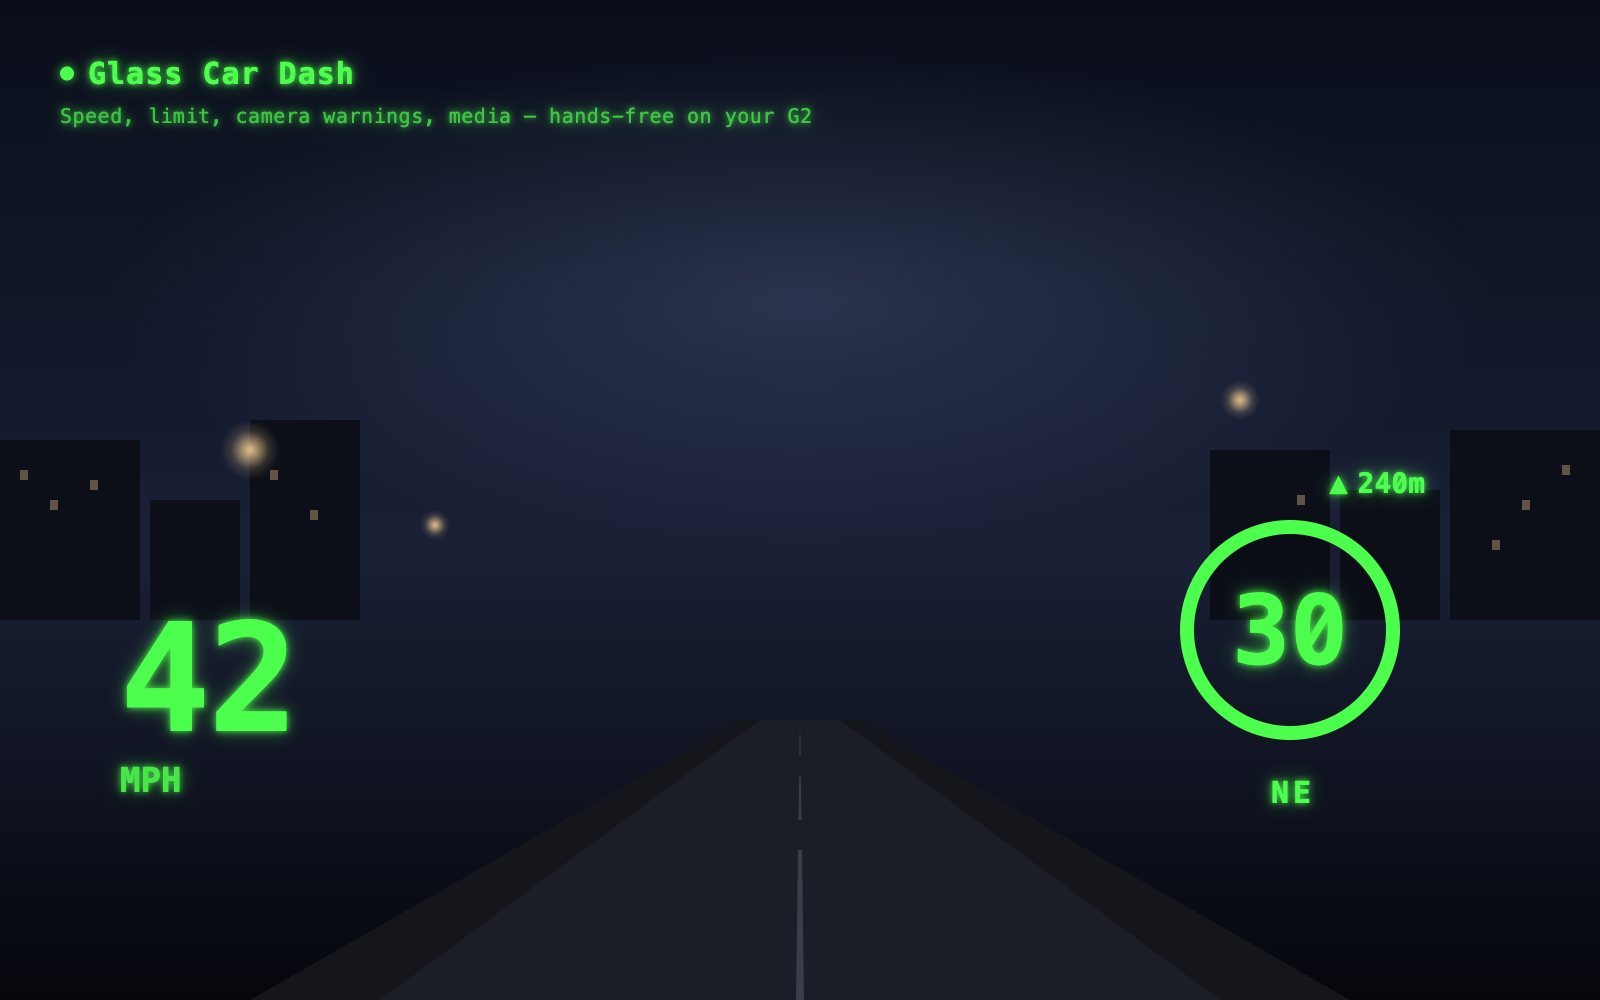
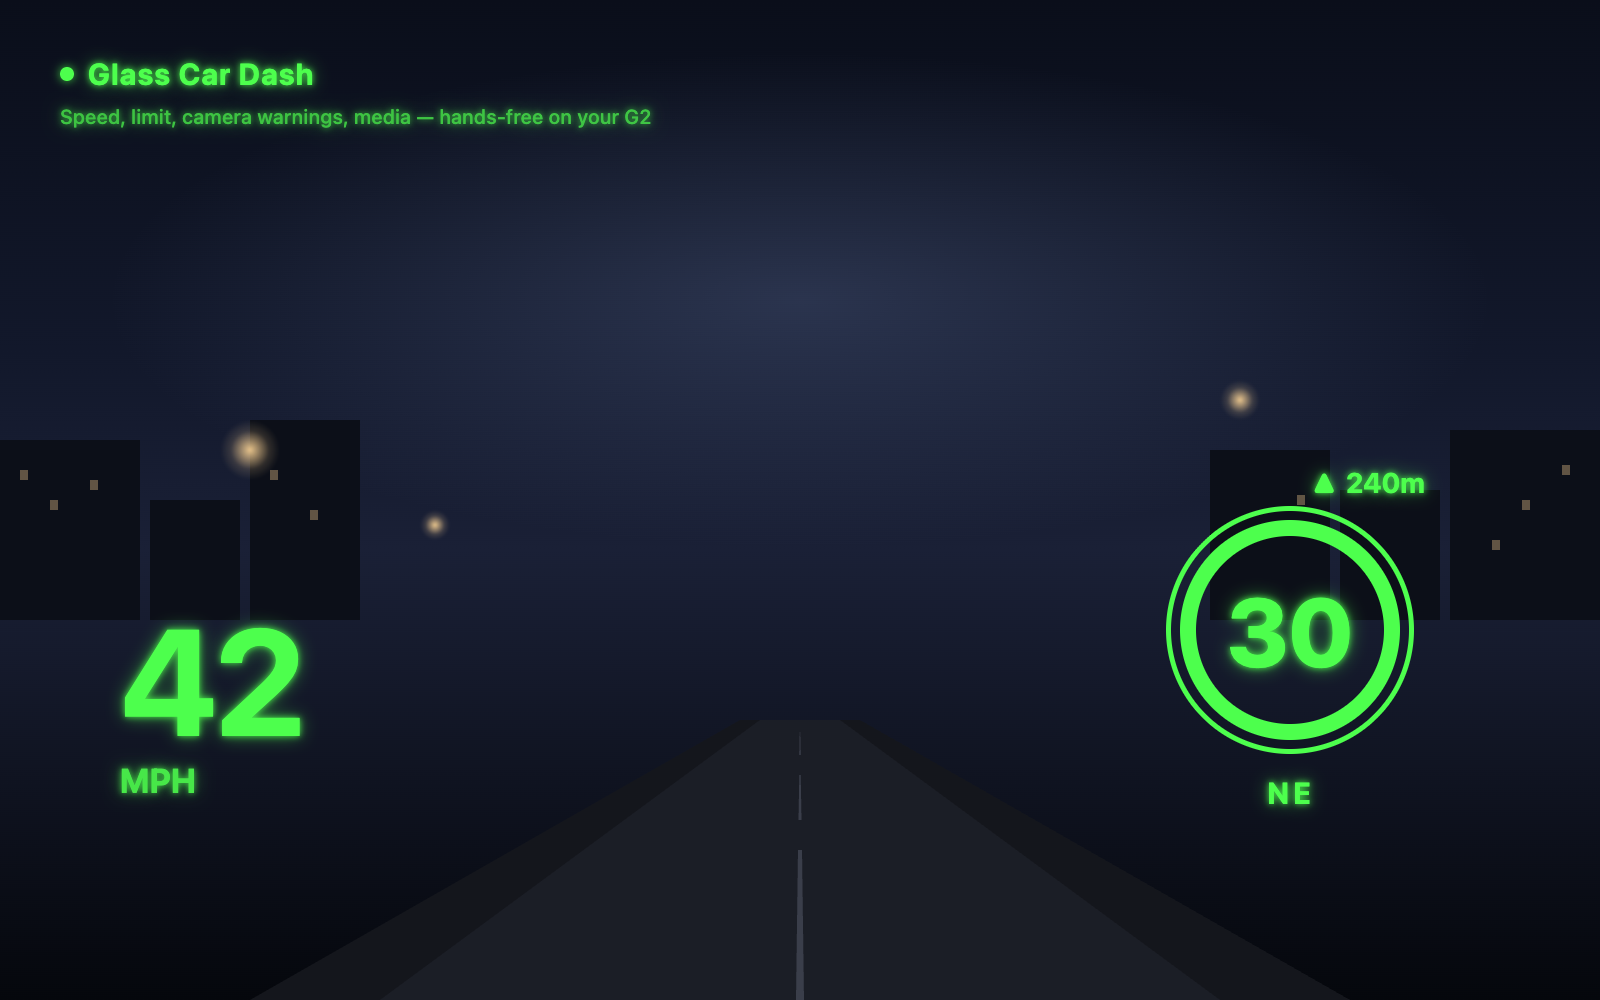
Fix unsupported battery glyph, refresh store assets, update descriptions
Found via the simulator's own render log ("glyph dsc. not found for
U+26A1") that the lightning-bolt charging indicator doesn't exist in the
real G2 font either — same failure mode as the 🕶/📱 emoji caught earlier.
Replaced with a plain "+" suffix.

Regenerated all three store images against the current (redesigned) UI:
the two on-device screenshots now show the double-ring panel and new data
(phone battery, road name, now-playing), and the hero mockup's ring/font
were updated to match the real device's actual style instead of the
original single-ring/monospace draft.

Updated README, STORE_LISTING.md, and app.json description text to mention
phone battery, road name, and now-playing throughout — they'd only been
updated in code, not in the docs describing the app.

diff --git a/app/src/main.ts b/app/src/main.ts
@@ -62,14 +62,16 @@ async function loadPhoneStatus(): Promise<void> {
   paint()
 }
 
-// Plain-letter labels, not emoji — confirmed via the official simulator
-// (which mirrors the real font's glyph support) that 🕶/📱 render as nothing
-// at all in a text container, not even a placeholder box.
+// Plain-letter labels, not emoji or symbols — confirmed via the official
+// simulator (which mirrors the real font's glyph support) that 🕶/📱 render
+// as nothing at all in a text container, and the simulator's own log
+// (lv_draw_label: "glyph dsc. not found for U+26A1") confirms ⚡ doesn't
+// exist in the real font either. A trailing "+" is the charging indicator.
 function batteryText(): string {
   const b = state.battery
-  const glasses = b.levelPct == null ? '…' : `${b.charging ? '⚡' : ''}${b.levelPct}%`
+  const glasses = b.levelPct == null ? '…' : `${b.levelPct}%${b.charging ? '+' : ''}`
   const pb = state.phoneBattery
-  const phone = pb.levelPct == null ? '' : `  P ${pb.charging ? '⚡' : ''}${pb.levelPct}%`
+  const phone = pb.levelPct == null ? '' : `  P ${pb.levelPct}%${pb.charging ? '+' : ''}`
   return `G ${glasses}${phone}`
 }
 
@@ -97,7 +99,7 @@ function leftLines(): string[] {
   if (state.driving.roadName) lines.push(wrap(state.driving.roadName, LEFT_WRAP_WIDTH).split('\n')[0])
 
   const pb = state.phoneBattery
-  if (pb.levelPct != null) lines.push(`Phone ${pb.charging ? '⚡' : ''}${pb.levelPct}%`)
+  if (pb.levelPct != null) lines.push(`Phone ${pb.levelPct}%${pb.charging ? '+' : ''}`)
 
   return lines
 }

diff --git a/docs/store/STORE_LISTING.md b/docs/store/STORE_LISTING.md
@@ -35,12 +35,14 @@ Three images are in this folder:
   browser approximation). Use these as the supporting screenshots, so the
   listing shows both the pitch (hero) and the real thing (these two).
 
-All three use placeholder demo values (42 mph, limit 30, heading NE / a
-240m camera warning) set temporarily for the captures — the real app starts
-blank/pending until GPS and the Overpass lookup return real data, and the
-simulator can't produce that itself (its console log shows
-`unknown variant 'startAppLocationUpdates'` — it doesn't implement the
-SDK's location APIs).
+All three use placeholder demo values for speed/limit/heading/road name
+(42 mph, limit 30, heading NE, "Underwood Road" / a 240m camera warning)
+set temporarily for the captures — the real app starts blank/pending until
+GPS and the Overpass lookup return real data, and the simulator can't
+produce that itself (its console log shows `unknown variant
+'startAppLocationUpdates'` — it doesn't implement the SDK's location APIs).
+The now-playing title and phone battery %, on the other hand, are real —
+whatever the backend actually saw on the connected phone at capture time.
 
 ## 4. App description
 
@@ -60,12 +62,16 @@ by other Even Hub listings:
 > **Speed camera warnings.** Nearby fixed speed cameras surface
 > automatically, with distance, so there's no surprise.
 >
-> **Heading, at a glance.** A compass label shows which way you're facing
-> alongside your speed.
+> **Heading and road name, at a glance.** A compass label and the name of
+> the road you're on sit alongside your speed.
 >
 > **Hands-free media control.** Tap to play/pause, swipe up/down for
 > next/previous — works with whatever's playing (Spotify, YouTube Music,
-> podcasts, anything), no app-specific integration needed.
+> podcasts, anything), no app-specific integration needed, and shows the
+> current track title when it can.
+>
+> **Both batteries at a glance.** Glasses and phone battery both show in
+> the header, so you know which one needs charging first.
 >
 > **Free, open data, no accounts.** Works with no login and no API keys —
 > OpenStreetMap's public Overpass API for speed limits/cameras, and your own
@@ -94,7 +100,9 @@ against the source, not boilerplate):
 > account system, no analytics, and no advertising.
 >
 > The app makes exactly two kinds of network request, both described in its
-> declared permissions:
+> declared permissions — everything else (phone battery, now-playing track
+> title) is read from your own phone by your own backend and never leaves
+> the device either:
 >
 > 1. **Location lookups** — your device's GPS coordinates (latitude/
 >    longitude only) are sent directly from your phone to OpenStreetMap's
@@ -107,9 +115,17 @@ against the source, not boilerplate):
 >    only on `127.0.0.1` (the phone's own loopback interface) — this traffic
 >    never leaves your device.
 >
-> No trip data, speed history, or location history is persisted anywhere;
-> trip distance/timer exist only in memory for the current session and are
-> discarded when the app closes.
+> The same local backend also reads two things directly from Android and
+> serves them to the display over that same loopback connection, never
+> anywhere else: your phone's battery percentage (`termux-battery-status`),
+> and the title of whatever's currently playing, if the app publishes it
+> (`dumpsys media_session`) — best-effort only, since that's an
+> undocumented system dump, not a stable API.
+>
+> No trip data, speed history, location history, or now-playing history is
+> persisted anywhere; trip distance/timer and the current track title exist
+> only in memory for the current session and are discarded when the app
+> closes.
 >
 > **Terms**
 >

diff --git a/README.md b/README.md
@@ -5,13 +5,14 @@
 One screen, split in two: your media remote on the left, a live driving
 dashboard on the right — current speed, local speed limit shown as a
 circular road-sign graphic (from your phone's GPS + the OSM Overpass API),
-compass heading, speed camera proximity warnings, and glasses battery, all
-visible at a glance while you drive.
+compass heading, current road name, speed camera proximity warnings, and
+glasses + phone battery, all visible at a glance while you drive.
 
 The remote side controls whatever's playing on your phone. No
 media-app-specific integration: it works by sending standard Android media
 keyevents via ADB, so it works with Spotify, YouTube Music, podcasts,
-anything.
+anything — and shows the current track title when it can (best-effort, see
+[Troubleshooting](#troubleshooting)).
 
 **Gestures:**
 - **Tap** = play/pause
@@ -370,9 +371,10 @@ expect to need it for a while, if that matters to you.
 
 No accounts, no analytics, no data collected or stored by the developer.
 GPS coordinates go directly from your phone to OpenStreetMap's public
-Overpass API for speed limit/camera lookups; media commands go to your own
-backend on `127.0.0.1` and never leave the device. Full details in
-[`docs/store/STORE_LISTING.md`](docs/store/STORE_LISTING.md).
+Overpass API for speed limit/camera lookups; media commands, phone
+battery, and the now-playing track title all go through (or come from)
+your own backend on `127.0.0.1` and never leave the device. Full details
+in [`docs/store/STORE_LISTING.md`](docs/store/STORE_LISTING.md).
 
 ## License
 